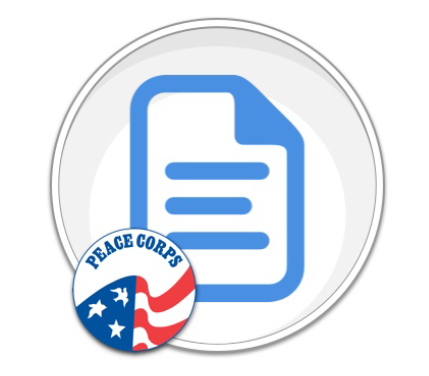
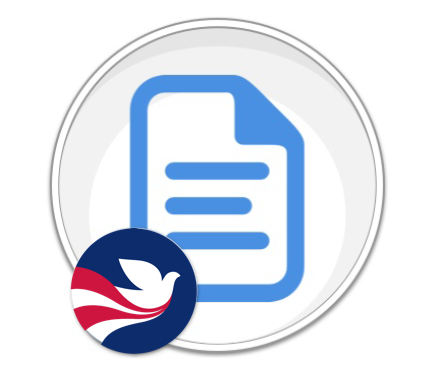
UI Improvements

Changed region(s): [[0.1515, 0.5851, 0.4848, 0.9654]]

diff --git a/src/app/navbar/navbar.component.html b/src/app/navbar/navbar.component.html
@@ -1,22 +1,45 @@
 <div class="container-fluid">
   <div class="sidebar" [@toggleNav]="state">
-    <mat-toolbar color="primary">
-      <button type="button" class="btn btn-default btn-lg toggle-button" aria-label="Left Align" (click)="toggle()">
-        <span class="glyphicon glyphicon-align-justify" aria-hidden="true"></span>
+    <mat-toolbar id="navbar">
+      <button id="toggle" type="button" class="btn btn-default btn-lg toggle-button" aria-label="Left Align" (click)="toggle()">
+        &#9776;
       </button>
+      <img src="/assets/img/leftBanner.png" id="banner">
     </mat-toolbar>
 
     <ul class="nav text-center">
       <div class="profile">
-        <img  [src]="proPic" onError="this.src='assets/img/profilepic.png';" class="profile-pic img-circle">
+        <img [src]="proPic" onError="this.src='assets/img/profilepic.png';" class="profile-pic img-circle">
         <p> {{username}} </p>
       </div>
-      <li><a routerLink="/introduction">{{language?.links.introduction}}</a></li>
-      <li><a routerLink="/malaria-101/activity-1-1">{{language?.links.malaria101}}</a></li>
-      <li><a routerLink="/meds-n-labels/activity-1">{{language?.links.medsAndLabels}}</a></li>
-      <li><a routerLink="/prevent">{{language?.links.prevention}}</a></li>
-      <li><a routerLink="/introduction/activity-1">{{language?.links.pcpolicy}}</a></li>
-      <li><a (click)="toggleInfokit()">{{language?.links.infokit}}</a></li>
+      <li>
+        <a routerLink="/menu" routerLinkActive="active-link" class="menu-link">{{language?.links.menu}}</a>
+      </li>
+      <br>
+      <li>
+        <a class="menu-link" routerLink="/meds-n-labels/activity-3" routerLinkActive="active-link">{{language?.links.doctorChat}}</a>
+      </li>
+      <br>
+      <li>
+        <a class="menu-link" routerLink="/introduction"
+           routerLinkActive="active-link">{{language?.links.introduction}}</a>
+      </li>
+      <br>
+      <li>
+        <a class="menu-link" routerLink="/malaria-101/activity-1-1" routerLinkActive="active-link">{{language?.links.malaria101}}</a>
+      </li>
+      <br>
+      <li>
+        <a class="menu-link" routerLink="/prevent/" routerLinkActive="active-link">{{language?.links.prevention}}</a>
+      </li>
+      <br>
+      <li>
+        <a class="menu-link" routerLink="/meds-n-labels/activity-1" routerLinkActive="active-link">{{language?.links.medsAndLabels}}</a>
+      </li>
+      <br>
+      <li>
+        <a class="menu-link" routerLink="/introduction/activity-1" routerLinkActive="active-link">{{language?.links.pcpolicy}}</a>
+      </li>
     </ul>
   </div>
 </div>

diff --git a/src/app/navbar/navbar.component.scss b/src/app/navbar/navbar.component.scss
@@ -1,5 +1,9 @@
 @import "../styles/main";
 
+#navbar {
+    background-color: $blue;
+}
+
 .profile-pic {
     max-height: $profile-pic-height;
     max-width: $profile-pic-width;
@@ -8,14 +12,65 @@
 
 .profile {
     font-size: $font-size-small;
+    color: $white;
+    width: 100%;
+    background-image: url('assets/img/ProfileBackground.jpg');
+    text-transform: uppercase;
 }
 
 .nav {
-    a {
-        cursor: pointer;
+  background-color: $blue;
+
+  .menu-link {
+      cursor: pointer;
+      vertical-align: middle;
+      display: table-cell;
+      text-transform: uppercase;
+      color: $white;
+      font-size: $font-navbar-small;
+      font-weight: bold;
+
     }
+  a:hover, a:active, a:focus{
+    color: $blue;
+  }
 }
 
 li {
-    padding: $padding-med;
+    display: table;
+    background-color: $blue;
+    height: 60px;
+    width: 100%;
+    text-align: center;
+}
+.sidebar {
+    background-color: $blue;
+}
+
+ul {
+    display: flex;
+    justify-content: start;
+    align-items: start;
+    flex-direction: column;
+}
+
+#banner {
+    height: $peace-corps-left-banner-height
+}
+
+.active-link {
+    background-color: white;
+    color: $blue !important;
+}
+
+.sidebar {
+    overflow-y: auto;
+}
+
+::-webkit-scrollbar {
+    display: none;
+}
+
+#toggle {
+    font-size: $font-size-med;
 }

diff --git a/src/app/header/header.component.html b/src/app/header/header.component.html
@@ -1,11 +1,17 @@
-<mat-toolbar color="primary">
+<app-infokit #info></app-infokit>
+<mat-toolbar id="header">
     <div class="col-xs-1">
-        <button type="button" class="btn btn-default btn-lg toggle-button" aria-label="Left Align" (click)="navbartoggle()">
-            <span class="glyphicon glyphicon-align-justify" aria-hidden="true"></span>
+        <button type="button" id="toggle" class="btn btn-default btn-lg toggle-button" aria-label="Left Align" (click)="navbartoggle()">
+          &#9776;
         </button>
     </div>
     <div class="col-md-10 text-center">
         <span class="header-white-1 text-center">{{language?.headings.titleLeft}}</span><span class="header-2 text-center">{{language?.headings.titleRight}}</span>
     </div>
-    <button type="button" class="btn btn-default logout-button" aria-label="Left Align" (click)="logout()">{{language?.messages.logoutButton}}</button>
+  <div class="icons">
+    <i matTooltip="Update Profile" class="fa fa-pencil-square-o" (click)="editProfile()"></i>
+    <i matTooltip="Infokit" class="fa fa-archive" (click)="info.pop()"></i>
+    <i matTooltip="Logout" class="fa fa-power-off" (click)="logout()"></i>
+  </div>
 </mat-toolbar>
+

diff --git a/src/app/material.module.ts b/src/app/material.module.ts
@@ -4,6 +4,8 @@ import { MatDialogModule } from '@angular/material/dialog';
 import { MatButtonModule } from '@angular/material';
 import { MatChipsModule } from '@angular/material';
 import { MatIconModule } from '@angular/material';
+import { MatSidenavModule } from '@angular/material';
+import { MatTooltipModule } from '@angular/material';
 
 @NgModule({
   imports: [
@@ -11,17 +13,24 @@ import { MatIconModule } from '@angular/material';
     MatDialogModule,
     MatButtonModule,
     MatChipsModule,
-    MatIconModule
+    MatIconModule,
+    MatSidenavModule,
+    MatIconModule,
+    MatTooltipModule
   ],
   exports: [
     MatToolbarModule,
     MatDialogModule,
     MatButtonModule,
     MatChipsModule,
-    MatIconModule
+    MatIconModule,
+    MatSidenavModule,
+    MatIconModule,
+    MatTooltipModule
   ]
 })
-export class MaterialModule { }
+export class MaterialModule {
+}
 
 // Have created this new module that shall able to allow us keep a track of different components that we are using in the project
 

diff --git a/src/app/navbar/navbar.component.spec.ts b/src/app/navbar/navbar.component.spec.ts
@@ -8,6 +8,8 @@ import { BrowserAnimationsModule } from '@angular/platform-browser/animations';
 import { MaterialModule } from '../material.module';
 import { DashboardService } from '../services/dashboard.service';
 import { LanguageService } from '../services/language.service';
+import { InfokitComponent } from '../infokit/infokit.component';
+import { InfokitService } from '../services/infokit.service';
 
 describe('NavbarComponent', () => {
   let component: NavbarComponent;
@@ -22,13 +24,15 @@ describe('NavbarComponent', () => {
       ],
       declarations: [
         NavbarComponent,
-        HeaderComponent
+        HeaderComponent,
+        InfokitComponent
       ],
       providers: [
         NavbarService,
         APIService,
         DashboardService,
-        LanguageService
+        LanguageService,
+        InfokitService
       ]
     })
       .compileComponents();

diff --git a/src/app/header/header.component.spec.ts b/src/app/header/header.component.spec.ts
@@ -7,6 +7,8 @@ import { HttpClient } from '@angular/common/http';
 import { HttpClientTestingModule, HttpTestingController } from '@angular/common/http/testing';
 import { MaterialModule } from '../material.module';
 import { LanguageService } from '../services/language.service';
+import { InfokitComponent } from '../infokit/infokit.component';
+import { InfokitService } from '../services/infokit.service';
 
 
 describe('HeaderComponent', () => {
@@ -20,11 +22,12 @@ describe('HeaderComponent', () => {
         HttpClientTestingModule,
         MaterialModule
       ],
-      declarations: [HeaderComponent],
+      declarations: [HeaderComponent, InfokitComponent],
       providers: [
         AuthService,
         APIService,
-        LanguageService
+        LanguageService,
+        InfokitService
       ],
     })
       .compileComponents();

diff --git a/src/app/header/header.component.ts b/src/app/header/header.component.ts
@@ -14,6 +14,7 @@ import { LanguageService } from '../services/language.service';
 export class HeaderComponent implements OnInit {
     language: any;
     @Output() toggleNavbar = new EventEmitter<any>();
+    @Output() openEditProfile = new EventEmitter<any> ();
 
     navbartoggle() {
         this.toggleNavbar.emit();
@@ -33,5 +34,9 @@ export class HeaderComponent implements OnInit {
                 this._router.navigate(['/login']);
             }
         });
+    }
+
+    editProfile(): void {
+      this.openEditProfile.emit();
     }
 }

diff --git a/src/app/app.component.html b/src/app/app.component.html
@@ -1,6 +1,5 @@
-<!--The whole content below can be removed with the new code.-->
 <div class="header" [hidden]='!loggedIn'>
-    <app-header (toggleNavbar)="nav.toggle()"> </app-header>
+    <app-header (toggleNavbar)="nav.toggle()" (openEditProfile)="nav.editUser()"> </app-header>
 </div>
 <app-infokit #info > </app-infokit>
 <app-navbar #nav (togglePosition)="toggle();" (infoPop)="info.pop()" [hidden]='!loggedIn'> </app-navbar>

diff --git a/src/app/header/header.component.scss b/src/app/header/header.component.scss
@@ -1,7 +1,26 @@
 @import "../styles/main";
+#header {
+  background: $blue;
+}
 
 .header-bar {
-    background: $header-background;
-    margin-top: 0;
-    margin-bottom: 0;
+  background: $header-background;
+  margin-top: 0;
+  margin-bottom: 0;
+}
+.icons {
+  color: $white;
+  font-size: $font-size-med;
+}
+
+.icons :hover {
+  cursor: pointer;
+}
+
+i {
+  margin-right: 1em;
+}
+
+#toggle {
+  font-size: $font-size-med;
 }

diff --git a/src/app/styles/partials/_base.scss b/src/app/styles/partials/_base.scss
@@ -19,13 +19,14 @@ $z-index-bottom: 0;
 $profile-pic-height: 185px;
 $profile-pic-width: 200px;
 $profile-pic-padding: $padding-large;
+$peace-corps-left-banner-height: 1.6em;
 
 //sidebar
 $header-background: $blue;
 $side-bar-header-padding: $padding-small;
 $sidebar-background: $white;
 $sidebar-font-color: $black;
-$sidebar-width: 200px;
+$sidebar-width: 250px;
 
 //Headings
 $header-left-color: $blue;

diff --git a/src/app/navbar/navbar.component.ts b/src/app/navbar/navbar.component.ts
@@ -63,9 +63,5 @@ export class NavbarComponent implements OnInit {
         this.state = (this.state === 'out') ? 'in' : 'out';
         this.togglePosition.emit();
     }
-
-    toggleInfokit() {
-        this.infoPop.emit();
-    }
 }
 

diff --git a/src/app/styles/modules/_typography.scss b/src/app/styles/modules/_typography.scss
@@ -1,5 +1,8 @@
-$font-size-med: 30px;
+$font-size-large: 30px;
+$font-size-med: 25px;
 $font-size-small: 20px;
 $font-size-large-relative: 200%;
 $font-size-med-relative: 150%;
 $font-bold: 900;
+$font-navbar-small: 17px;
+
